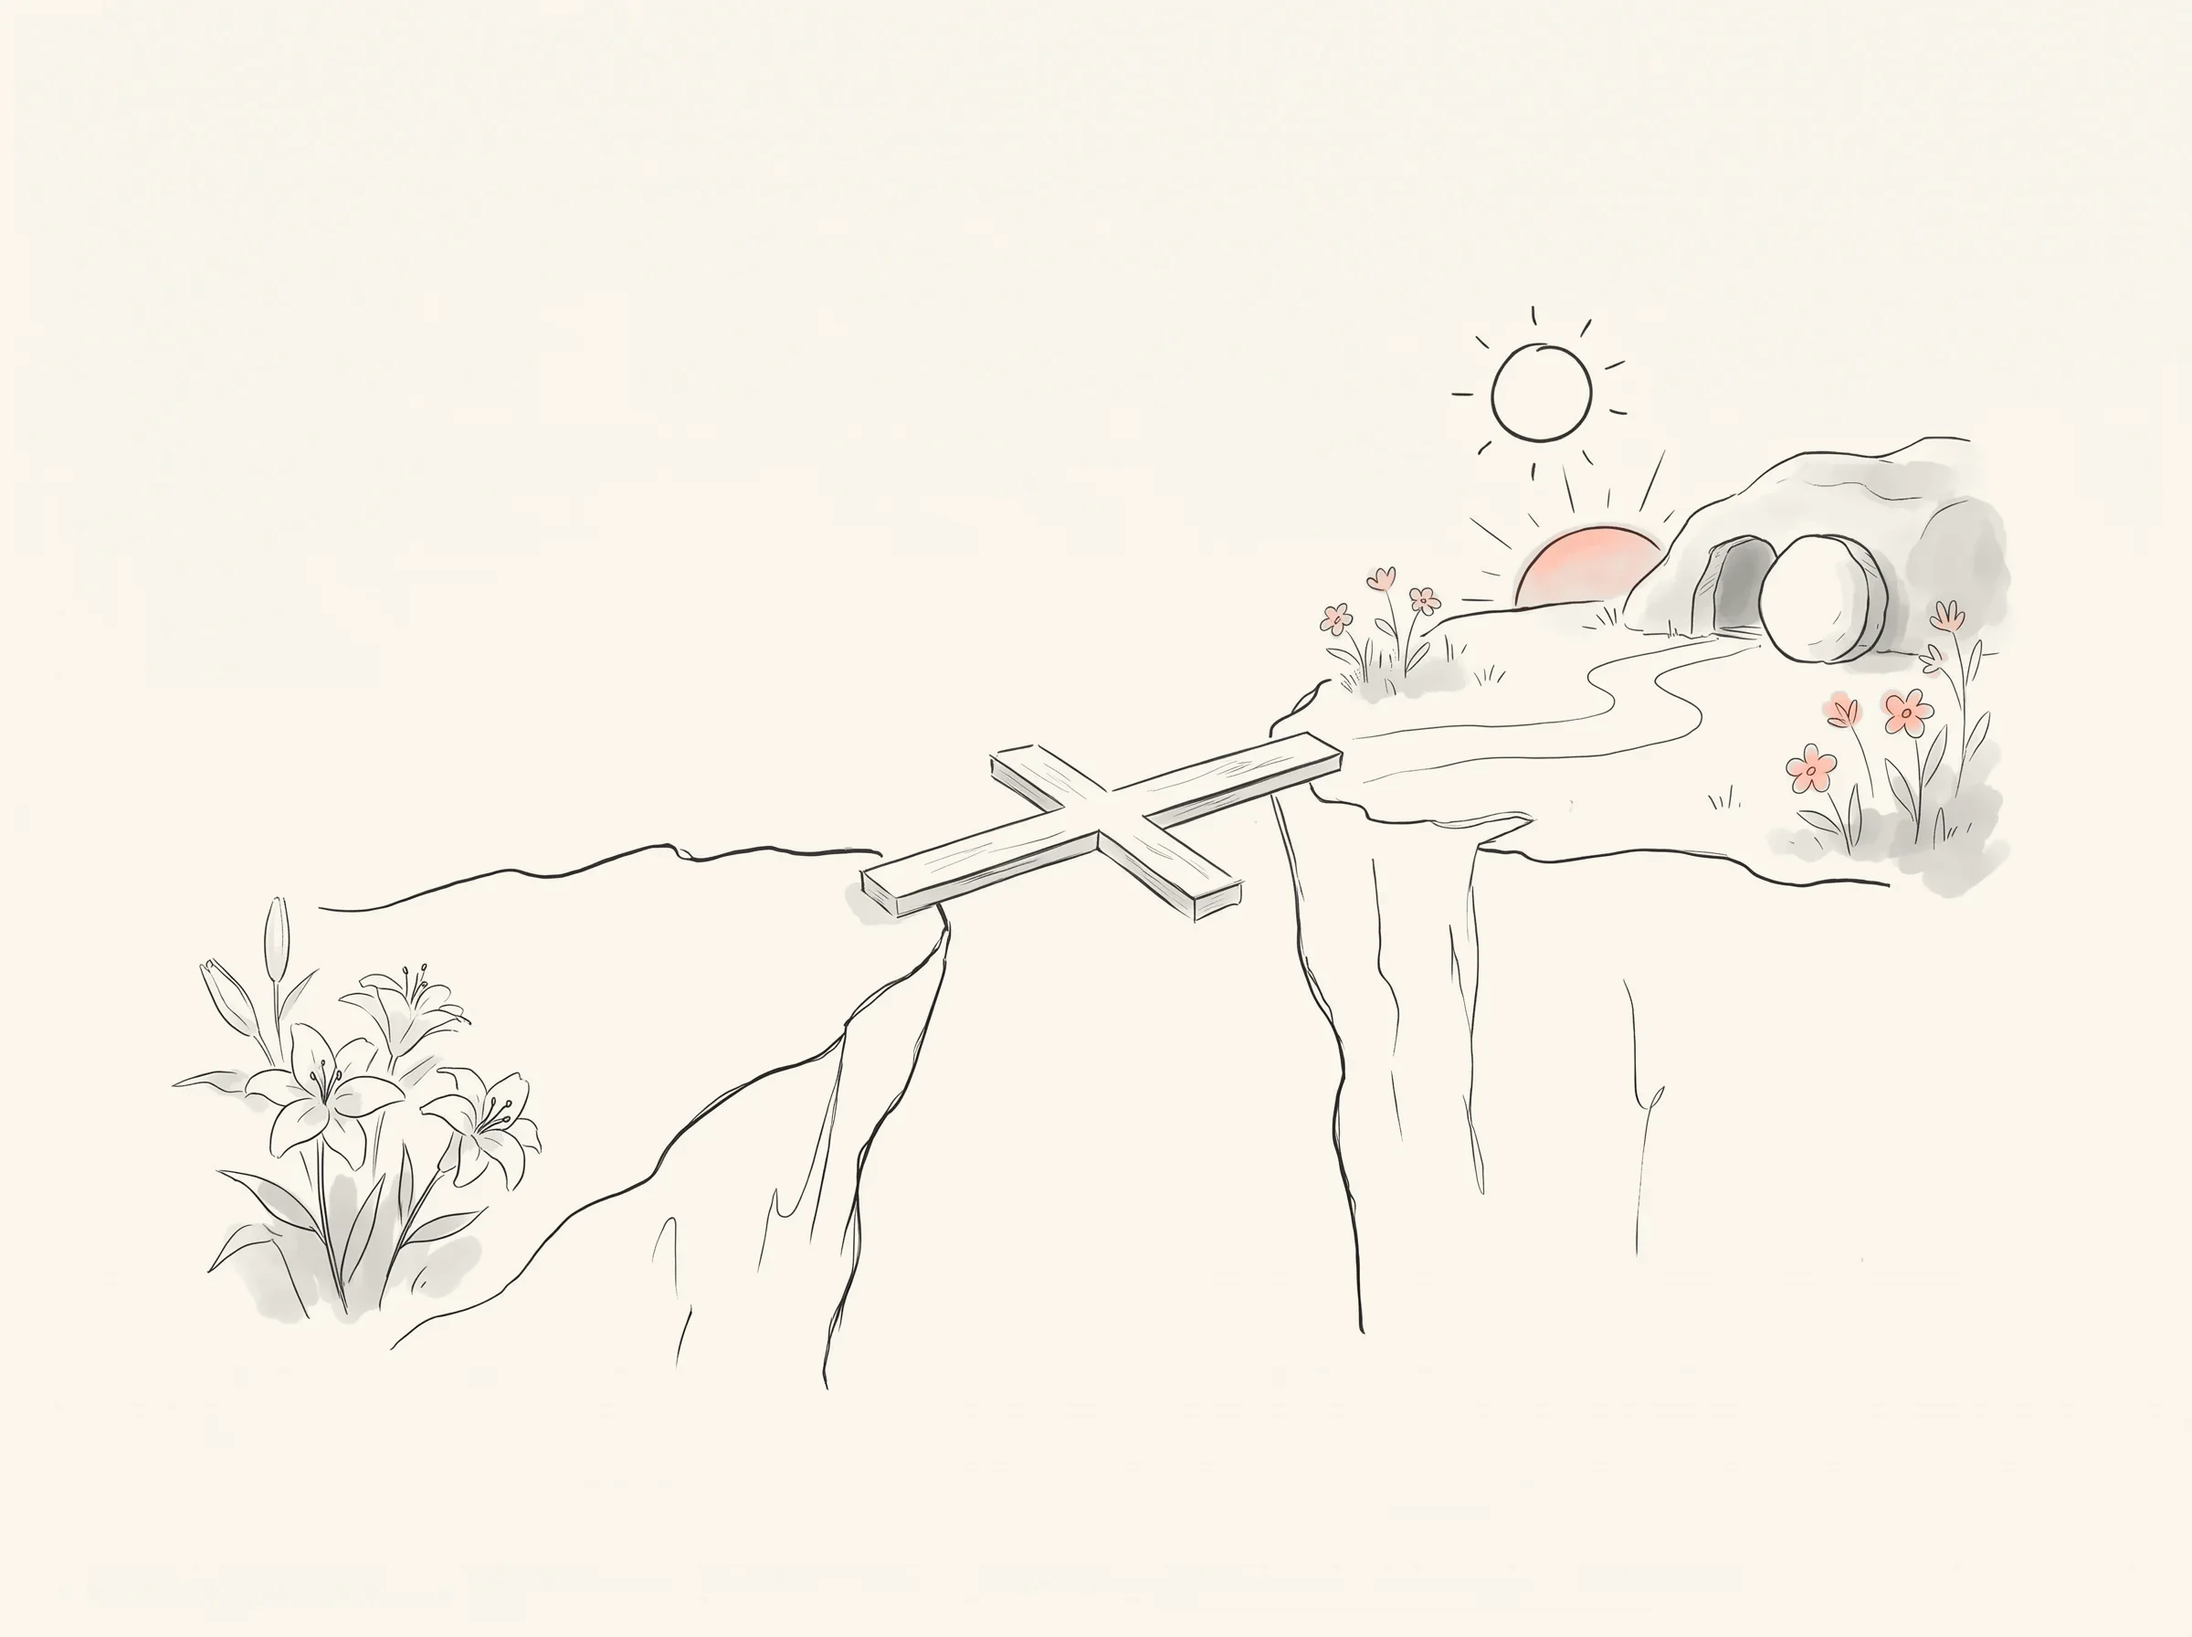
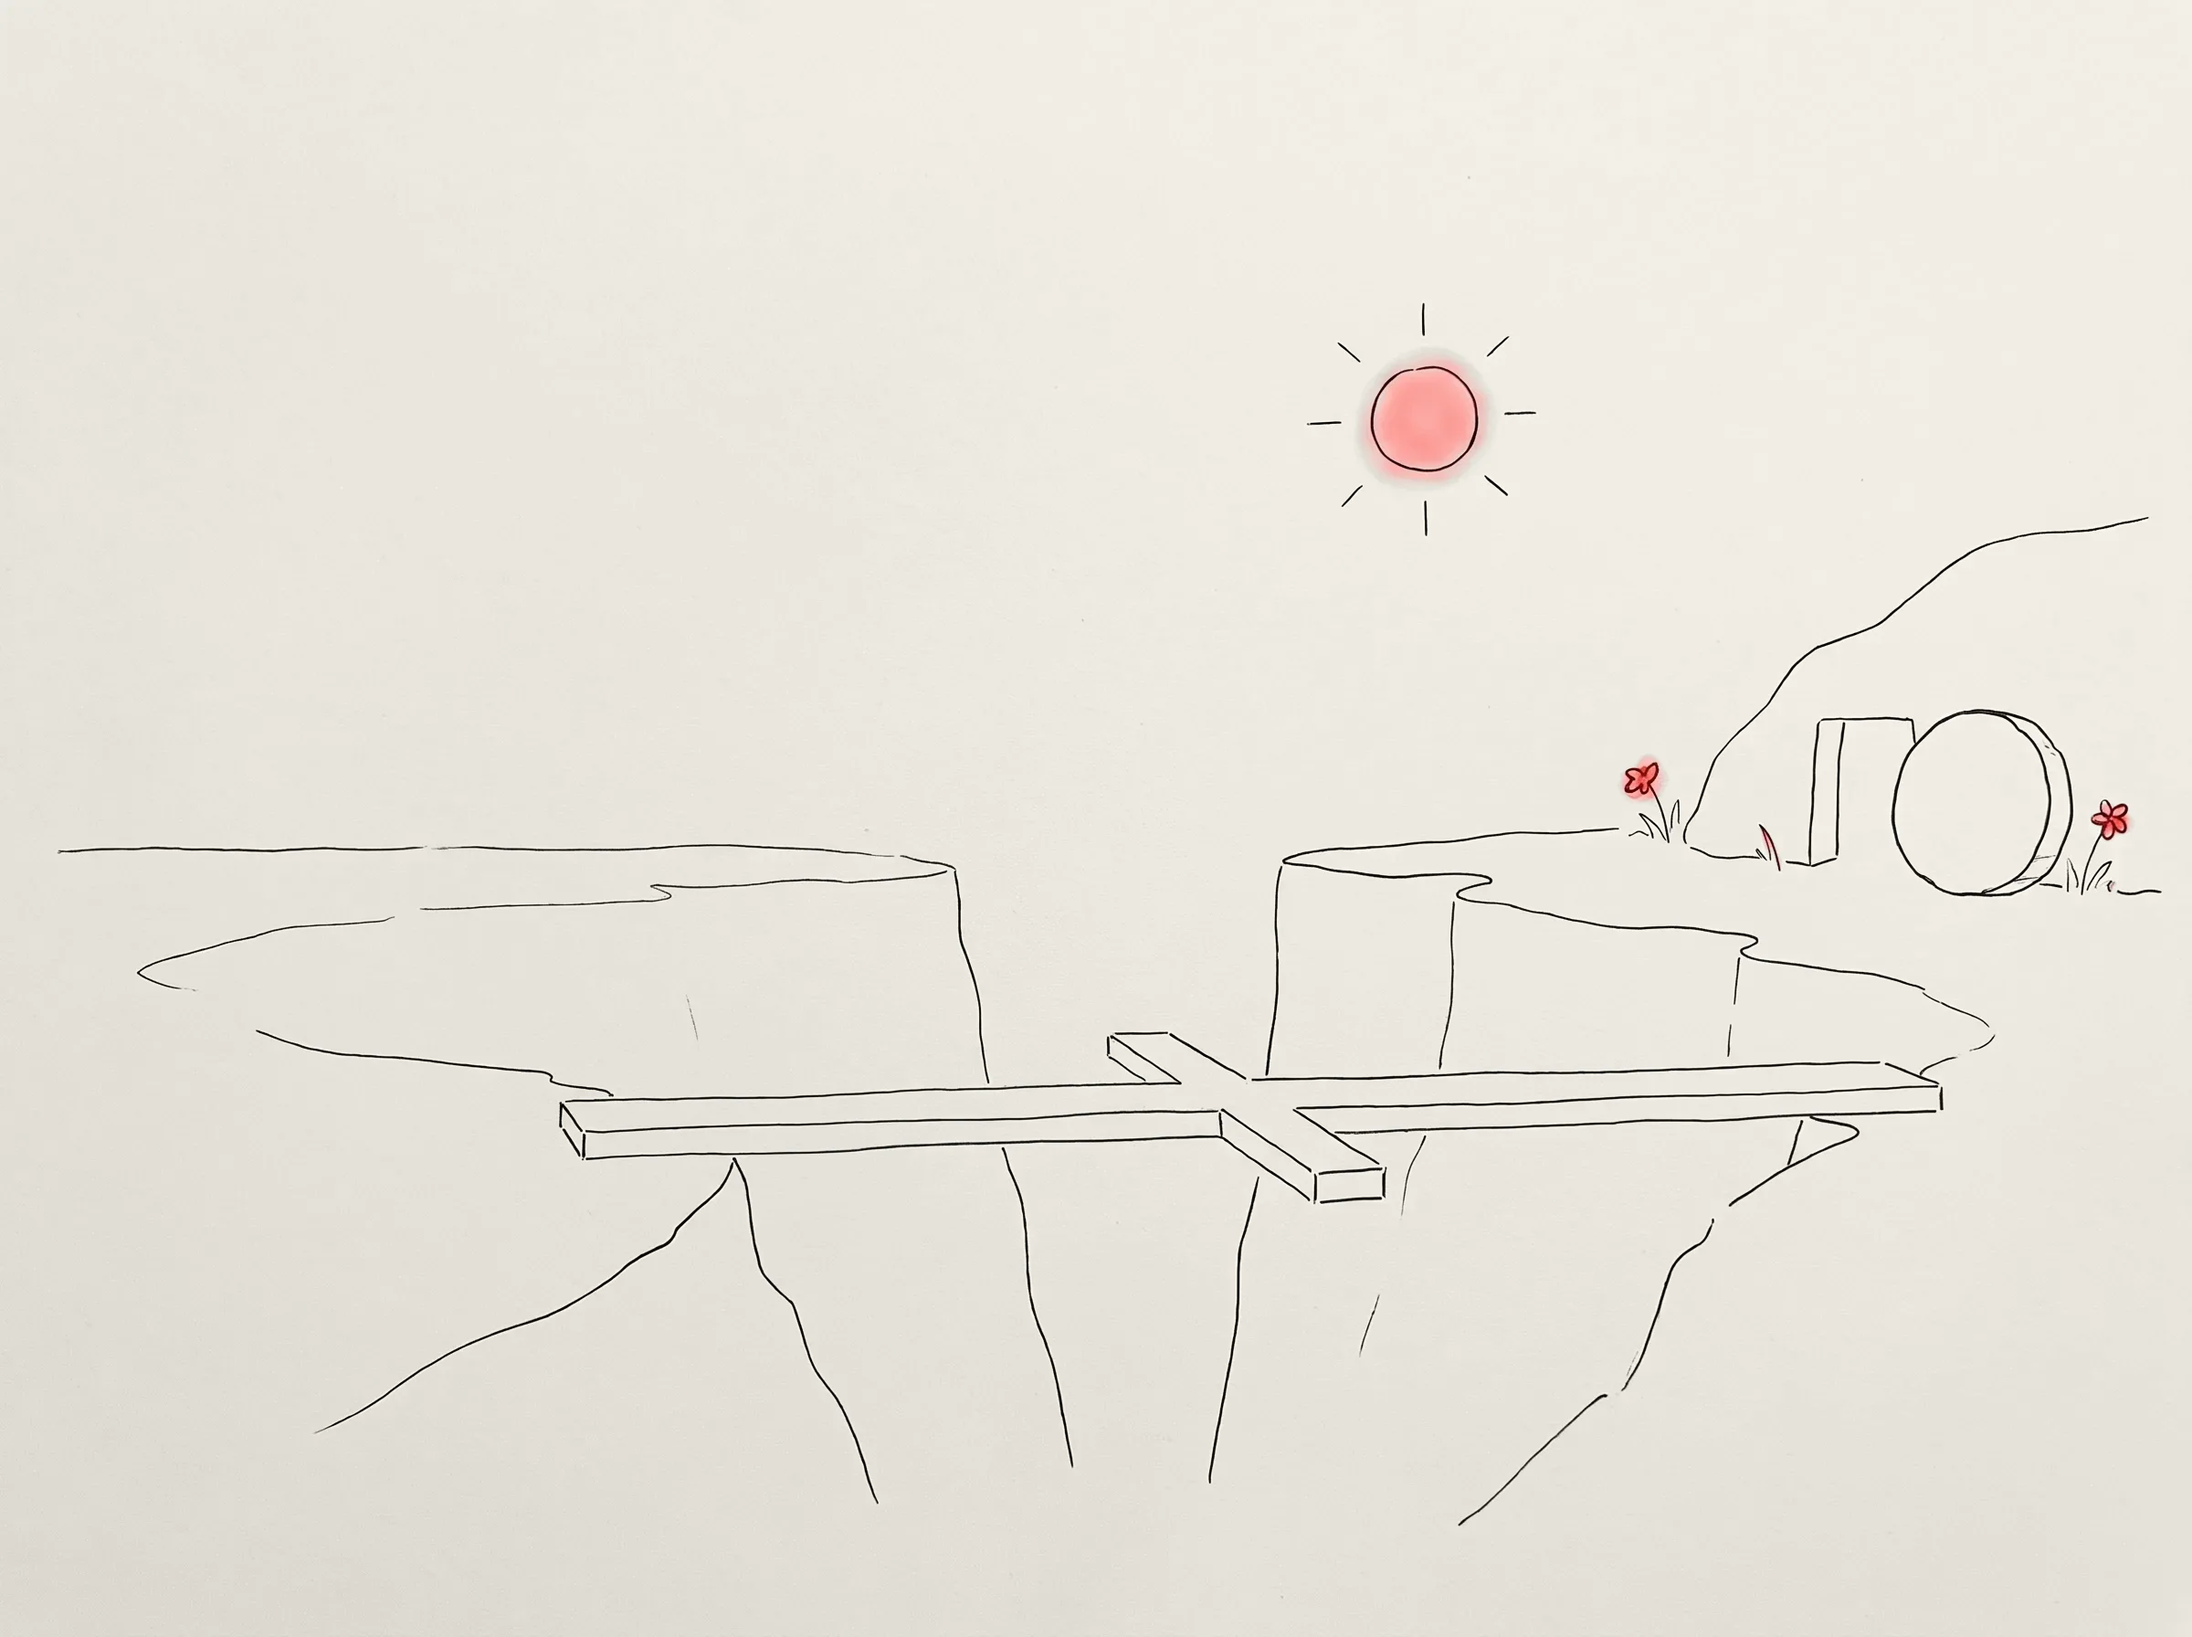
GoodNews: simpler line drawings, black ink with a single red accent
Claude-Session: https://claude.ai/code/session_013XZMV8G8Q1L4pTidHP5kib

diff --git a/CLAUDE.md b/CLAUDE.md
@@ -24,7 +24,7 @@
   - 다른 여정도 같은 방식으로 녹음한다(Chirp 3 HD Aoede, `node _src/tools/voice.mjs --j moses all walks`, 같은 assets/voice/ko) — 앱은 녹음이 있는 문장만 녹음으로 튼다. 배경음악은 `_src/journeys/<여정>/music.json`(`node _src/tools/music.mjs --j moses`, 곡 이름 m-…, 모세 여정은 현대 다큐멘터리 영화음악 결). 진행 기록도 여정마다 따로(`theway-progress-<여정>`)
   - 관리자 페이지도 `admin.html?j=<여정>`으로 나뉜다(위쪽 고르기)
   - 설치 아이콘·앱 이름도 여정마다 따로(테마색): `j/<여정>/icon*.png·apple-touch-icon.png·manifest.webmanifest`, `node _src/tools/icons.mjs [여정…]`로 만든다(색 표는 그 안에). index.html 머리의 스크립트가 `?j=`에 맞춰 링크를 바꾼다
-  - **GoodNews (복음, goodnews)**: 시리즈 맨 끝의 전도용 여정. 화면 이름은 'GoodNews (복음)' — '4영리'는 우리끼리 부르는 말이라 화면에 쓰지 않는다. 4영리의 네 흐름(하나님의 사랑 → 죄와 단절 → 예수 그리스도 → 믿음의 응답)을 이 앱의 말로 새로 쓴 네 장면(g01–g04, CCC 소책자 문장은 쓰지 않는다). 4영리처럼 **분명하게**: 장면마다 첫 문단에 '첫째, …'로 원리를 선언하고 핵심 구절을 낭독 안에서 직접 읽는다(말씀 탭은 낭독하지 않으므로), 둘째 문단은 성경 이야기와 둘째 구절, 셋째 문단은 다음 원리로 넘어가는 물음. 이 여정만 이야기는 '당신'에게 말하는 합니다체. g04의 셋째 문단은 영접 기도(skeleton의 `prayer`: 문단 번호 → 카드에서 기도 상자로). `journey.json`의 `quick`(첫 화면 없이 늘 첫 장면부터)·`next`(끝 화면에서 이어 걸을 여정 단추)·`where: false`(낭독에서 장소·때와 걸어가는 안내를 읽지 않고 제목만)·`narrator`(해설 성우를 바꿈, `eleven:<목소리 id>`면 일레븐랩스로 녹음 — 환경변수·GitHub 비밀값 `ELEVENLABS_API_KEY`). g01·g02는 장소 `eden` — 장소가 에덴인 장면은 프롤로그처럼 따로 떨어진 에덴 무대(app.js `onEden`)에 선다. 배경음악은 예수 여정의 곡을 다시 쓴다. 그림(카드 g0X·장면 assets/img/goodnews)은 부록과 같은 펜 선 일러스트를 흑백에 붉은 기운만 남겨 쓴다 — 따뜻한 유화풍은 여호와의 증인 그림체와 비슷해 거부감이 든다는 사용자 판단(2026-11), 초록도 쓰지 않는다
+  - **GoodNews (복음, goodnews)**: 시리즈 맨 끝의 전도용 여정. 화면 이름은 'GoodNews (복음)' — '4영리'는 우리끼리 부르는 말이라 화면에 쓰지 않는다. 4영리의 네 흐름(하나님의 사랑 → 죄와 단절 → 예수 그리스도 → 믿음의 응답)을 이 앱의 말로 새로 쓴 네 장면(g01–g04, CCC 소책자 문장은 쓰지 않는다). 4영리처럼 **분명하게**: 장면마다 첫 문단에 '첫째, …'로 원리를 선언하고 핵심 구절을 낭독 안에서 직접 읽는다(말씀 탭은 낭독하지 않으므로), 둘째 문단은 성경 이야기와 둘째 구절, 셋째 문단은 다음 원리로 넘어가는 물음. 이 여정만 이야기는 '당신'에게 말하는 합니다체. g04의 셋째 문단은 영접 기도(skeleton의 `prayer`: 문단 번호 → 카드에서 기도 상자로). `journey.json`의 `quick`(첫 화면 없이 늘 첫 장면부터)·`next`(끝 화면에서 이어 걸을 여정 단추)·`where: false`(낭독에서 장소·때와 걸어가는 안내를 읽지 않고 제목만)·`narrator`(해설 성우를 바꿈, `eleven:<목소리 id>`면 일레븐랩스로 녹음 — 환경변수·GitHub 비밀값 `ELEVENLABS_API_KEY`). g01·g02는 장소 `eden` — 장소가 에덴인 장면은 프롤로그처럼 따로 떨어진 에덴 무대(app.js `onEden`)에 선다. 배경음악은 예수 여정의 곡을 다시 쓴다. 그림(카드 g0X·장면 assets/img/goodnews)은 흰 종이에 검은 선 몇 개뿐인 아주 단순한 선 그림에 붉은 기운만 남겨 쓴다(부록 그림보다 더 단순하게) — 따뜻한 유화풍은 여호와의 증인 그림체와 비슷해 거부감이 든다는 사용자 판단(2026-11), 초록도 쓰지 않는다
   - 공유 주소도 여정마다: `the-way-jesus.web.app/<여정>`(예: /moses)은 그 여정의 미리보기 카드(og, 그림 `j/<여정>/og.jpg`)만 담은 `<여정>/index.html`로, 열면 `/app.html?j=<여정>`으로 넘긴다. `node _src/tools/share.mjs [여정…]`로 만든다(직접 고치지 말 것, 여정 없이 돌리면 첫 화면의 미리보기 그림 `assets/og-series.jpg`도). 앱의 공유 단추도 이 주소를 보낸다. 새 여정을 열 때 share.mjs의 표에 더한다
 - `data.json` — `_src/`의 원본으로 `python3 _src/build.py`가 만든다. 직접 고치지 말 것 (작성 규칙 `_src/STYLE.md`)
 - `s/`, `sitemap.xml` — 검색엔진용 장면 페이지(`s/e05.html`, 번역은 `s/e05.<언어>.html`, 목록 `s/index.html`)와 사이트맵. 앱은 `#e05` 주소라 검색에 장면이 따로 잡히지 않아, 글을 미리 써 둔 정적 페이지를 두고 앱으로 잇는다. build.py 끝에서 `_src/pages.py`가 만든다(직접 고치지 말 것). `robots.txt`가 사이트맵을 알린다
